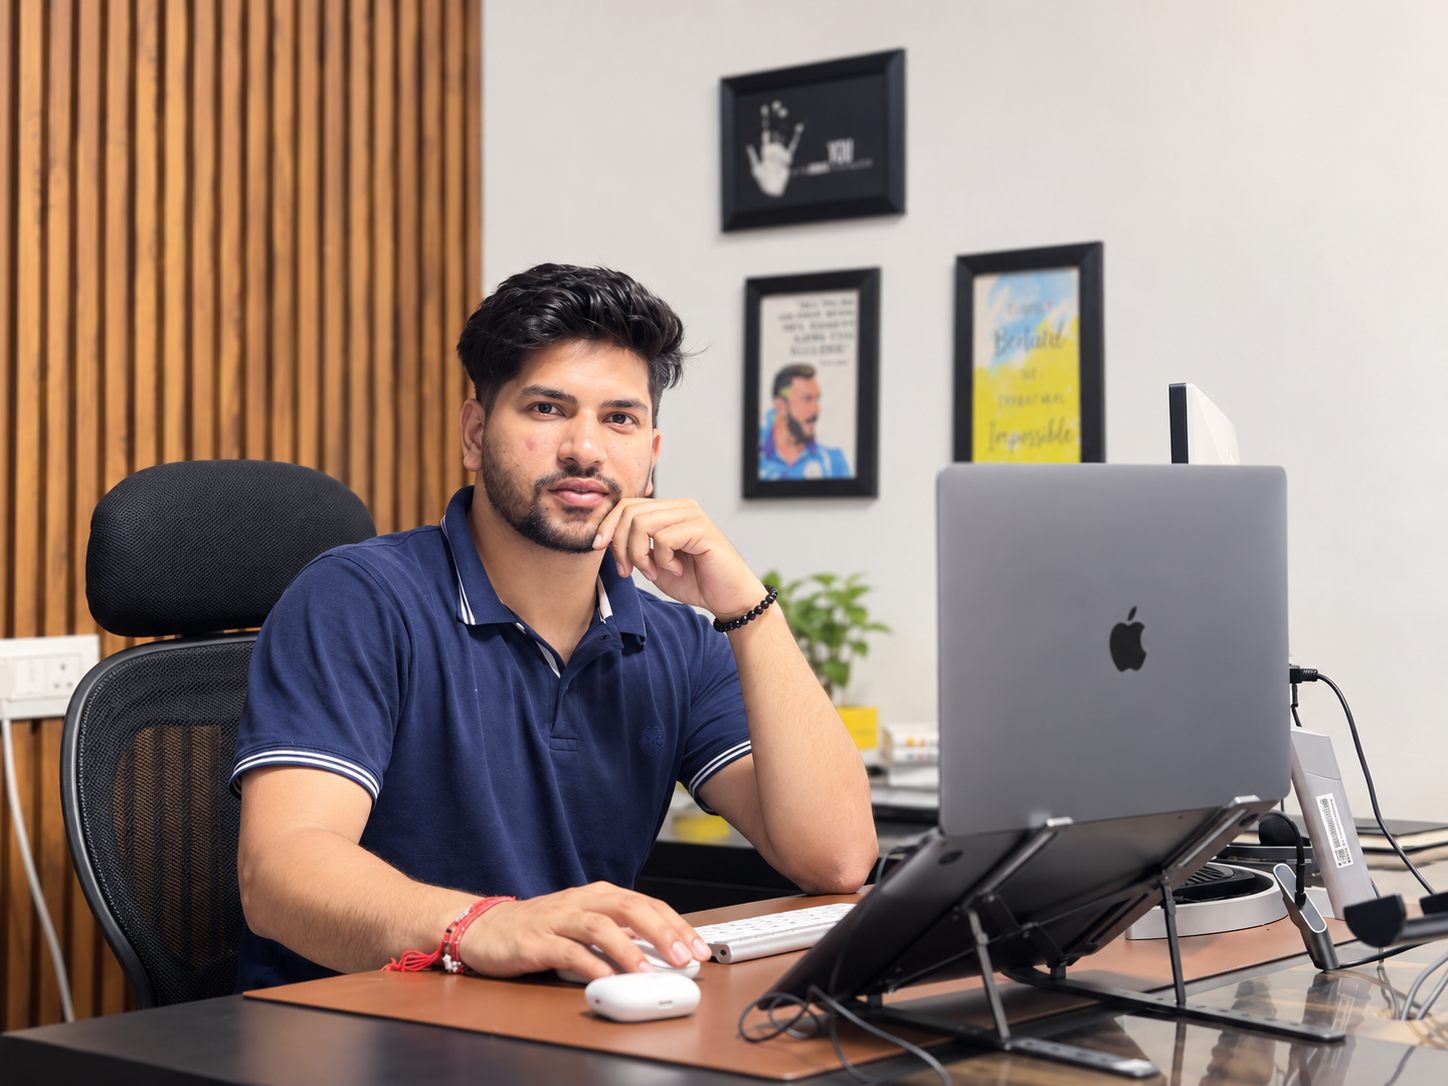
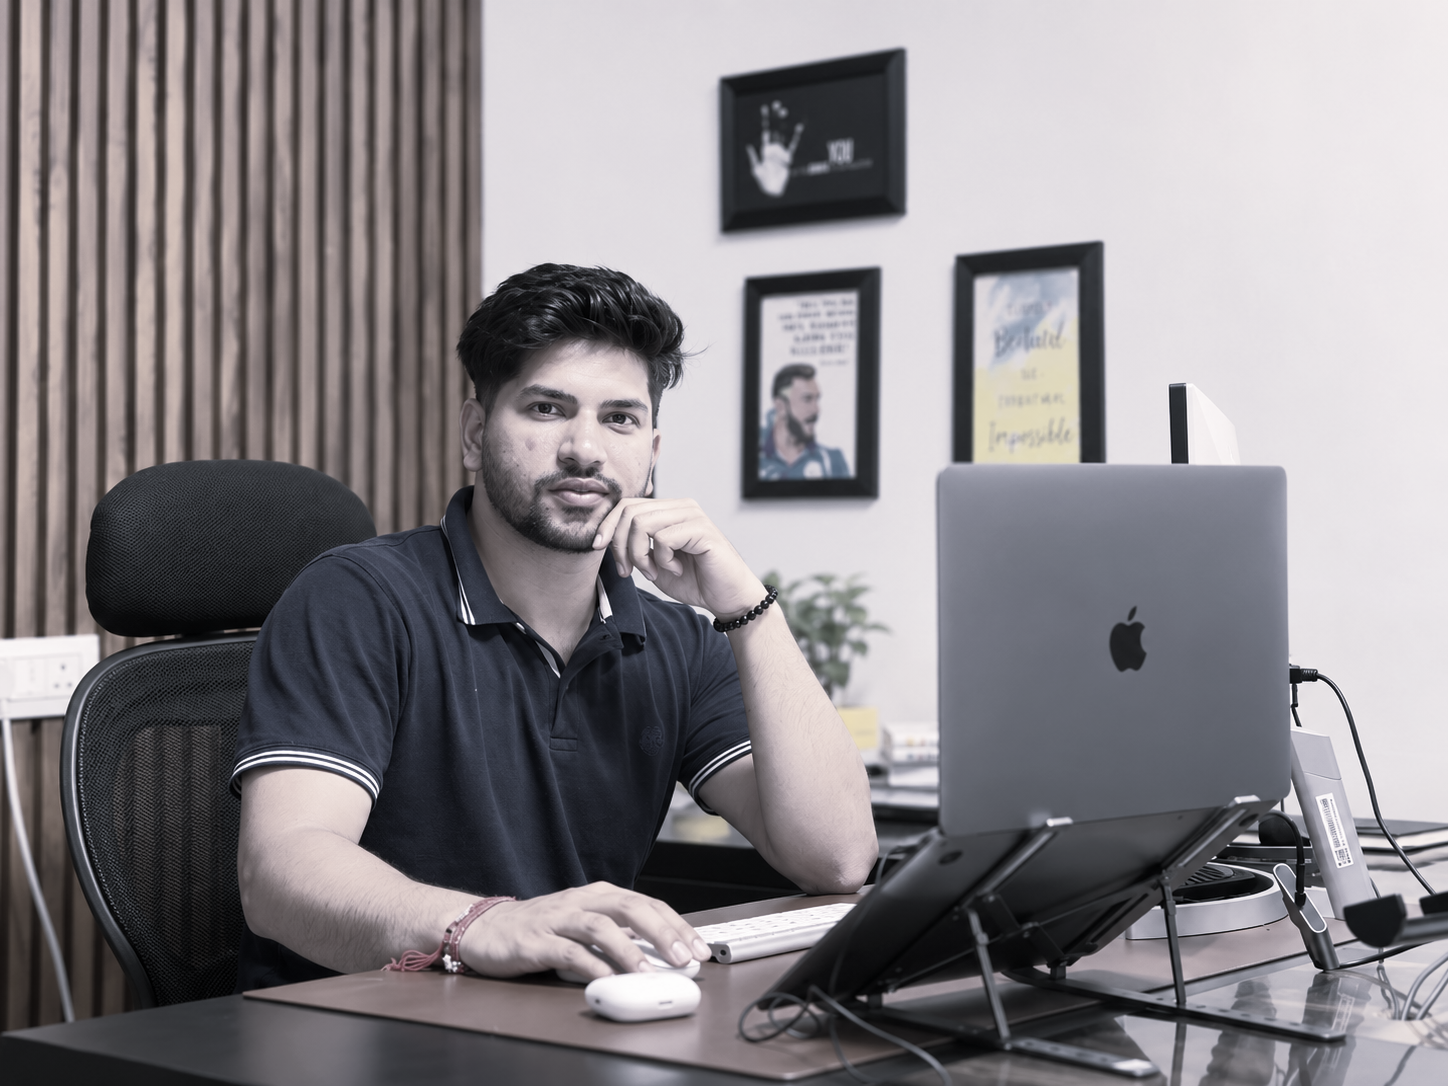
added new

diff --git a/app/about/page.tsx b/app/about/page.tsx
@@ -156,7 +156,7 @@ export default function AboutPage() {
             <div className="bg-white rounded-[2.5rem] border border-slate-200 shadow-2xl overflow-hidden hover:shadow-3xl transition-all duration-300 flex flex-col min-h-[600px]">
               <div className="relative w-full h-80 bg-slate-100 shrink-0">
                 <Image
-                  src="/images/founder/cofounder.png"
+                  src="/images/founder/cofounder.jpg"
                   alt="CodePlaced cofounder"
                   fill
                   className="object-cover object-center"
@@ -164,7 +164,7 @@ export default function AboutPage() {
               </div>
               <div className="p-8 flex flex-1 flex-col justify-center">
                 <h3 className="text-3xl font-bold text-slate-900 mb-2">
-                  Co-Founder
+                  Gaurav Shokhanda
                 </h3>
                 <p className="text-primary font-semibold text-lg mb-6">
                   Co-Founder — Strategy & Technology
@@ -185,6 +185,13 @@ export default function AboutPage() {
           </h3>
           <div className="grid grid-cols-1 sm:grid-cols-2 lg:grid-cols-3 gap-8 max-w-5xl mx-auto">
             {[
+              {
+                name: "Ankit",
+                role: "Data Analyst Manager",
+                initials: "A",
+                color: "bg-indigo-100 text-indigo-600",
+                image: "/images/team/ankit.png",
+              },
               {
                 name: "Prajjwal Kumar Rathi",
                 role: "Data Analyst",
